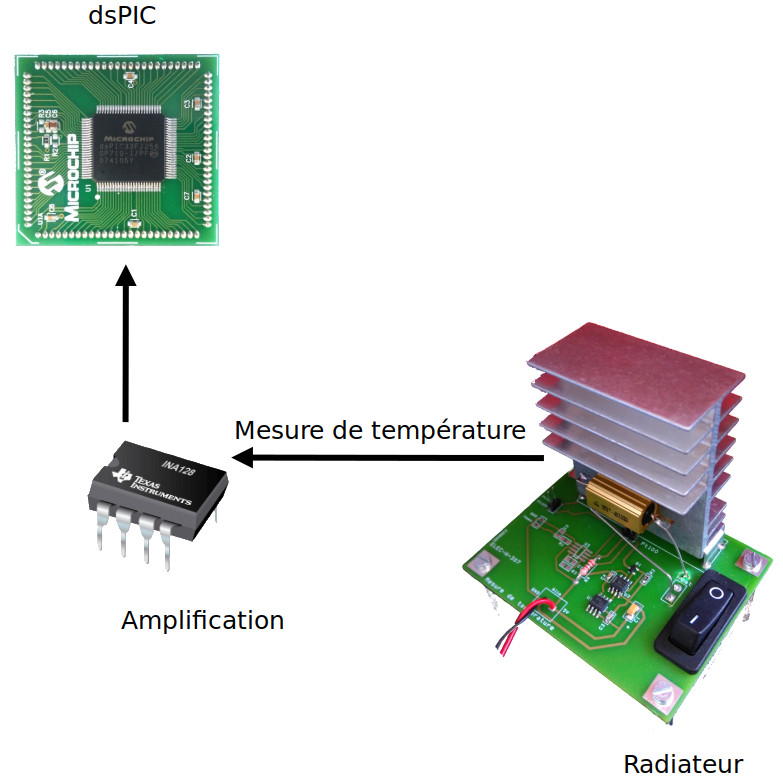
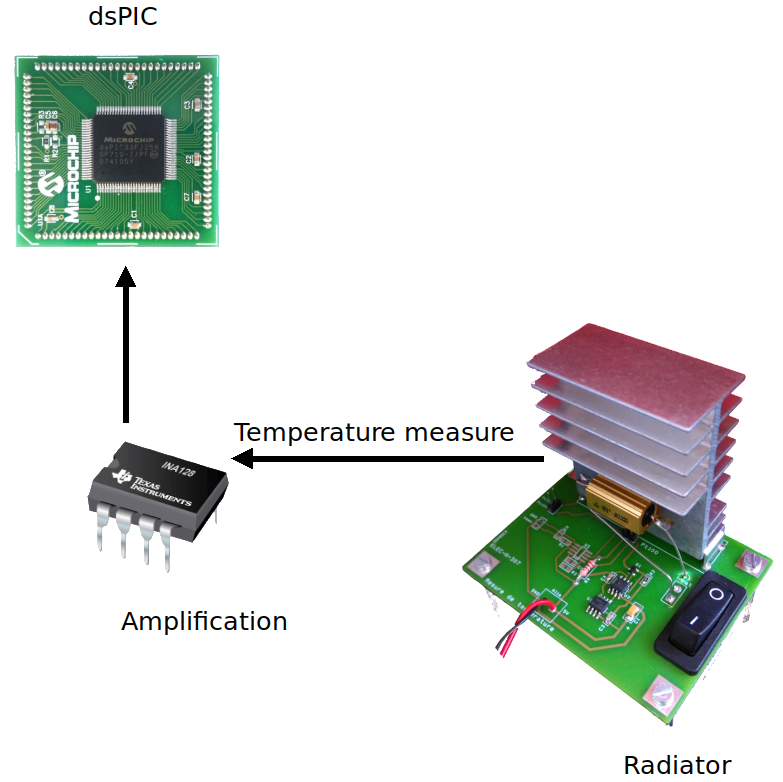
[Project 2] Relecture.

diff --git a/projet/partie 2/elech310_projet_partie2_eng.tex b/projet/partie 2/elech310_projet_partie2_eng.tex
@@ -2,7 +2,7 @@
 \usepackage[utf8]{inputenc}
 \usepackage[T1]{fontenc}
 \usepackage{amsthm} %numéroter les questions
-\usepackage[frenchb]{babel}
+\usepackage[english]{babel}
 \usepackage{datetime}
 \usepackage{xspace} % typographie IN
 \usepackage{hyperref}% hyperliens
@@ -28,7 +28,7 @@
 
 \usepackage{framed}
 
-\newdateformat{mydate}{2016--2017}%hack pour remplacer \THEYEAR
+\newdateformat{mydate}{v1.0.0}%hack pour remplacer \THEYEAR
 
 
 \newboolean{corrige}
@@ -55,7 +55,7 @@
 %% fancy header & foot
 \pagestyle{fancy}
 %Numero du TP :
-\def \labonumber {Projet -- Partie 2}
+\def \labonumber {Project -- Part 2}
 \lhead{[ELEC-H-310] Choucroute numérique\\ \labonumber}
 \rhead{\mydate\today\\ page \thepage}
 \chead{\ifthenelse{\boolean{corrige}}{Corrigé}{}}
@@ -84,7 +84,7 @@ pdfsubject={}
 \newcommand{\addcontentslinenono}[4]{\addtocontents{#1}{\protect\contentsline{#2}{#3}{#4}{}}}
 
 \date{\vspace{-1.7cm}\mydate\today}
-\title{\vspace{-2cm}\labonumber \\ Digital electronics [ELEC-H-310]\\Design of a cooling control system~: \\ acquisition and temperature control\ifthenelse{\boolean{corrige}}{~\\Corrigé}{}}
+\title{\vspace{-2cm}\labonumber \\ Digital electronics [ELEC-H-310]\\Design of a cooling control system: \\ acquisition and temperature control\ifthenelse{\boolean{corrige}}{~\\Corrigé}{}}
 
 %\author{\vspace{-1cm}}%\textsc{Yannick Allard}}
 
@@ -128,15 +128,15 @@ pdfsubject={}
 During three laboratory sessions, you will have to design a small cooling control system based on a propeller fan.
 You will also have to be able to interact locally (keyboard) with this system.
 
-During the second lab session, you will implement a closed loop temperature control of an heating element.
+During the second lab session, you will implement a closed loop temperature control of a heating element.
 You will have an effect on the temperature through the propeller fan.
 
 \section*{Prerequisite}
-Before entering in the lab, you have to read the project specifications defined in the file «~Design of a temperature regulation system~».
+Before entering in the lab, you have to read the project specifications defined in the document ``Design of a temperature regulation system".
 
 
 \section*{Objectives}
-At the end of this lab session, you'll be able to~:
+At the end of this lab session, you'll be able to:
 \begin{itemize}
 	\item Size a data acquisition system for $\mu$C.
 	\item Design and implement a simple control system.
@@ -182,28 +182,28 @@ On the basis of this measure, and of the desired temperature, you will design a 
 
 
 \section{Design of the data acquisition system}
-As explained in the project specifications, the measure of the temperature is realized by flowing a known continuous electrical current through a resistor whose the value change with temperature.
+As explained in the project specifications, the measure of the temperature is realized by flowing a known continuous electrical current through a resistor whose value change with temperature.
 
 This measure, with a low amplitude, must then be amplified before being digitized (see figure~\ref{fig:acquisition}).
 
 \begin{figure}[H]
 \center
 \includegraphics[width=0.8\textwidth]{acquisition}
-\caption{Chaîne d'acquisition de la température.}
+\caption{Temperature acquisition chain.}
 \label{fig:acquisition}
 \end{figure}
 
 \begin{itemize}
-	\item Knowning that the temperature can reach 45$\celsius$, what is the maximum voltage measurable at the terminals of the resistor~?
-	\item As the analog-to-digital converter digitizes the voltage on 10 bits and is supplied with 3.3V, what is its resolution~?
+	\item Knowning that the temperature can reach 45$\celsius$, what is the maximum voltage measurable at the terminals of the resistor?
+	\item As the analog-to-digital converter digitizes the voltage on 10 bits and is supplied with 3.3V, what is its resolution?
 \end{itemize}
 
 Now, we will design and implement the data acquisition system.
 \begin{itemize}
-	\item Why is it required to amplify~?
-	\item Why this amplification must be differential~?
-	\item Thanks to the datasheet of INA128, size the gain resistor.
-	\item Realized the circuit on your protoboard and check if it works.
+	\item Why is it required to amplify?
+	\item Why must this amplification be differential?
+	\item Thanks to the INA128 datasheet, size the gain resistor.
+	\item Connect the circuit on your protoboard and check if it works.
 \end{itemize}
 
 
@@ -222,10 +222,10 @@ Now, we will design and implement the data acquisition system.
 
 
 \section{Configuration of the analog-to-digital converter}
-Now, you will program the analog-to-digital converter so that you obtain a "digital image" of the temperature.
+Now, you will program the analog-to-digital converter so that you obtain a ``digital image" of the temperature.
 \begin{itemize}
-	\item Thanks to the coding guide (guide de programmation), configure the converter so that the temperature value is digitized each 10~ms (pay attention, additional steps are required in comparison with lab session 2).
-	\item On the basis of your data acquisition system, write a function allowing to have the temperature in $\celsius$ from the number given at the output of the converter.
+	\item Thanks to the coding guide (\textit{guide de programmation}), configure the converter so that the temperature value is digitized every 10ms (pay attention, additional steps are required compared to the second lab session).
+	\item Based on your data acquisition system, write a function translating the temperature in $\celsius$ from the number given at the output of the converter.
 	\item Write a second function allowing to display the temperature on the LCD screen, with a refresh rate of one second.
 \end{itemize}
 
@@ -245,8 +245,8 @@ Now, you will program the analog-to-digital converter so that you obtain a "digi
 
 
 \section{Temperature control}
-You have now all the elements to realize our temperature control system.
-The only thing missing is a controller (figure~\ref{fig:regulation}).
+You have now all the elements to build your temperature control system.
+The only item missing is a controller (figure~\ref{fig:regulation}).
 
 \begin{figure}[h]
 \center
@@ -258,7 +258,7 @@ The only thing missing is a controller (figure~\ref{fig:regulation}).
 \begin{itemize}
 	\item Write a function taking as an argument the desired temperature and the current temperature.
 	This control function will have to adjust the rotation speed of the propeller fan, so that it regulates the temperature.
-	The choice of the controller is up to you, but there no need to implement a too much complex one.
+	The choice of the controller is up to you, but it does not need to be particularly complex.
 	\item Choose a reference (or desired) temperature of 28$\celsius$, and check if your system works.
 \end{itemize}
 
